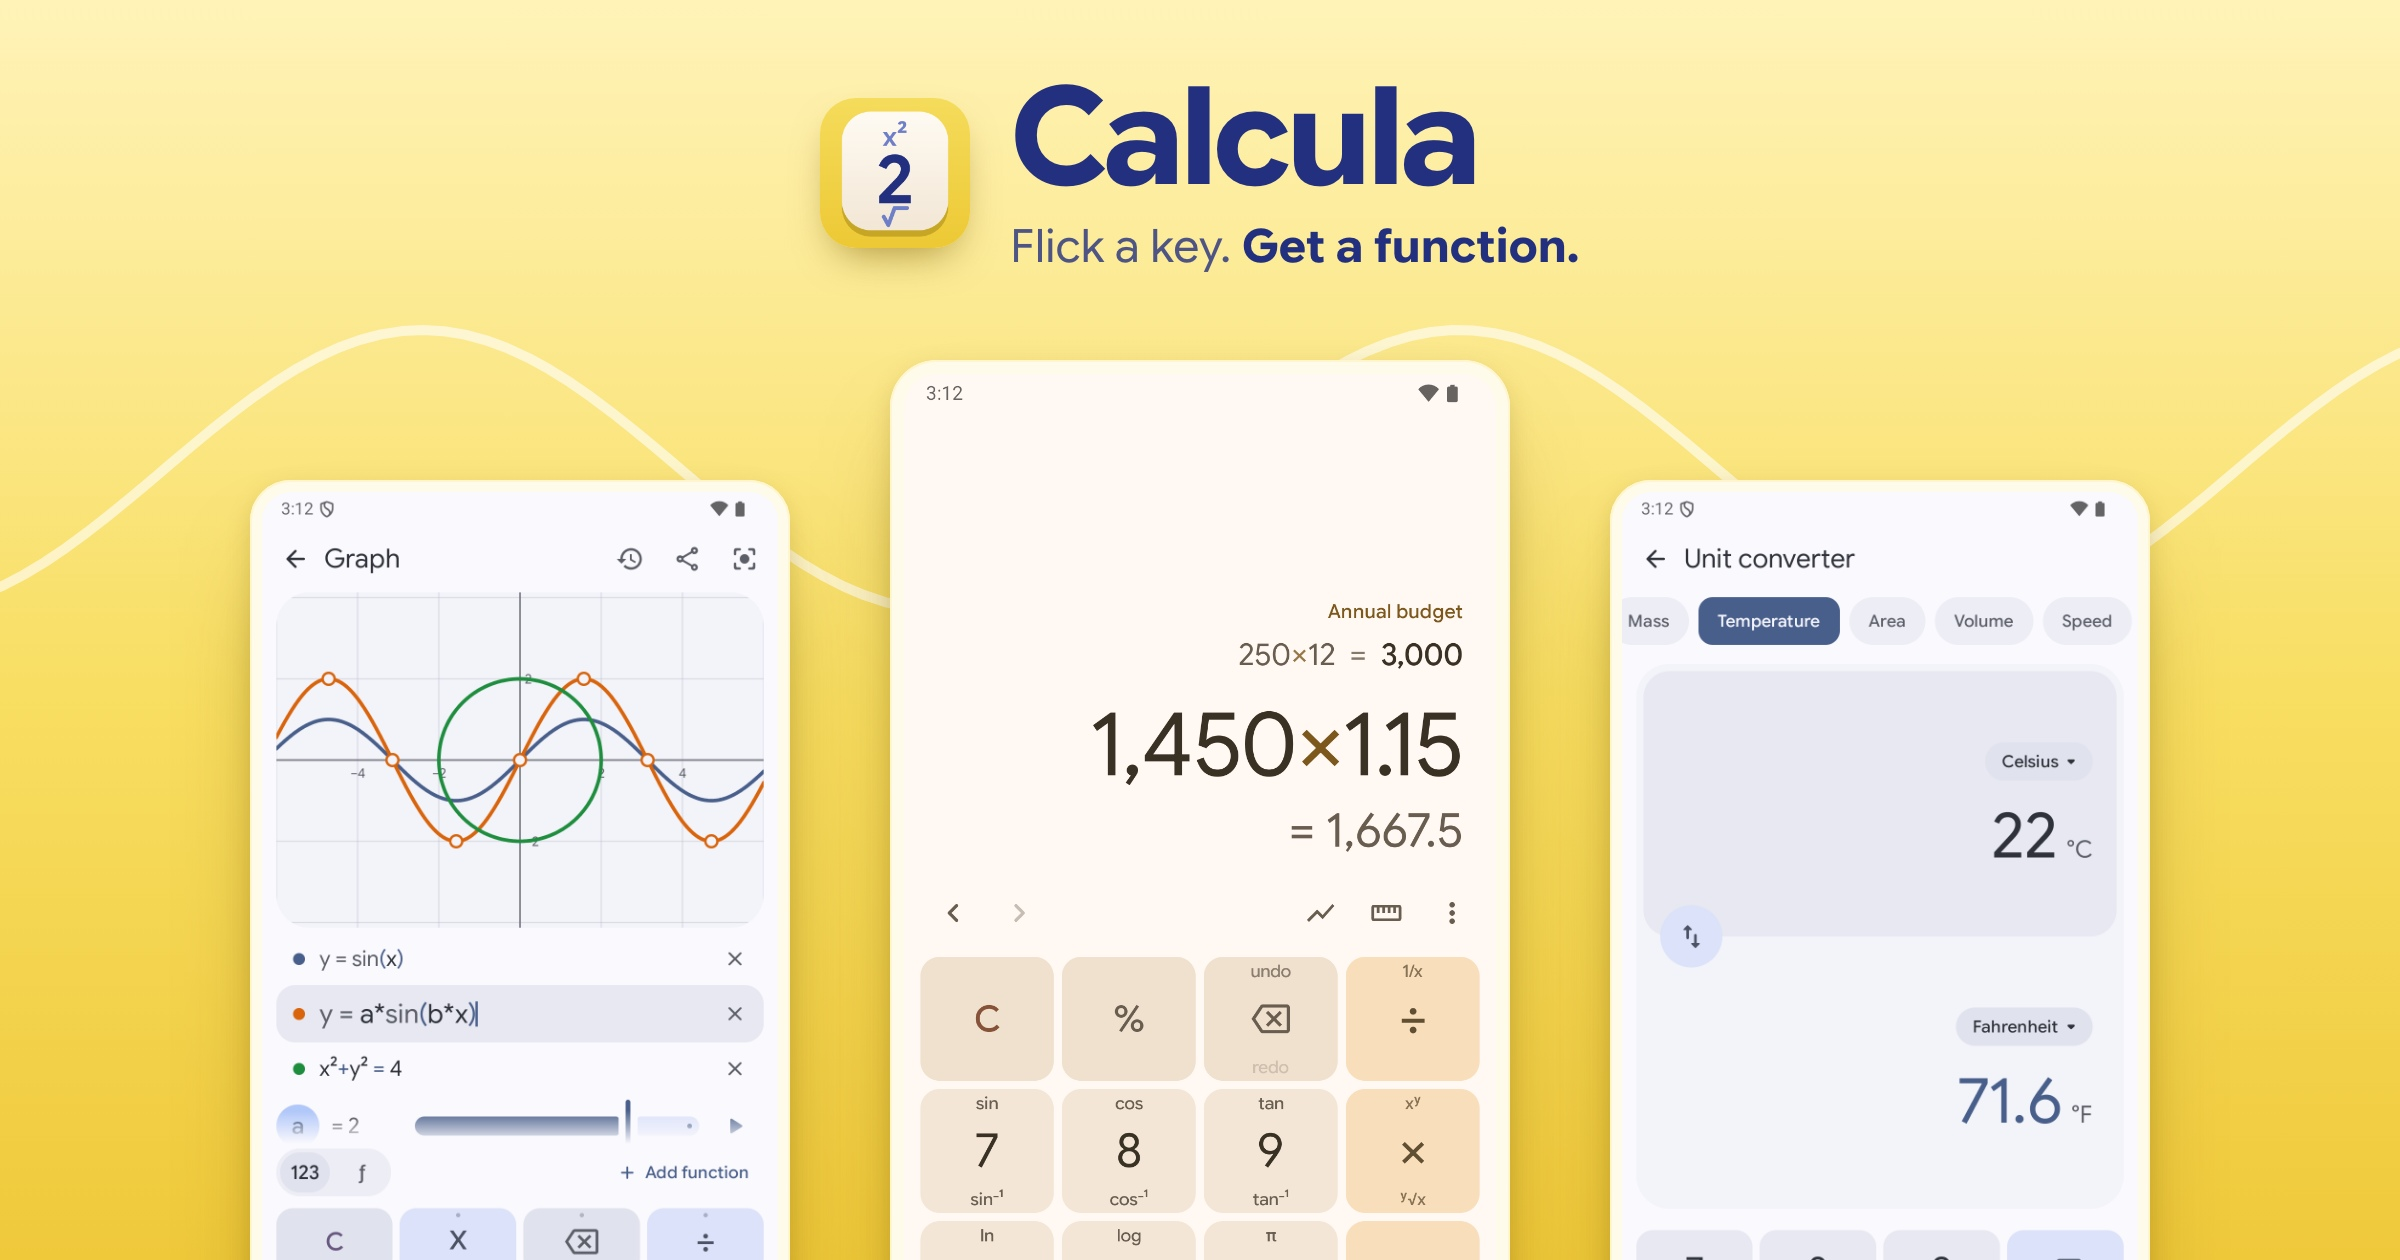
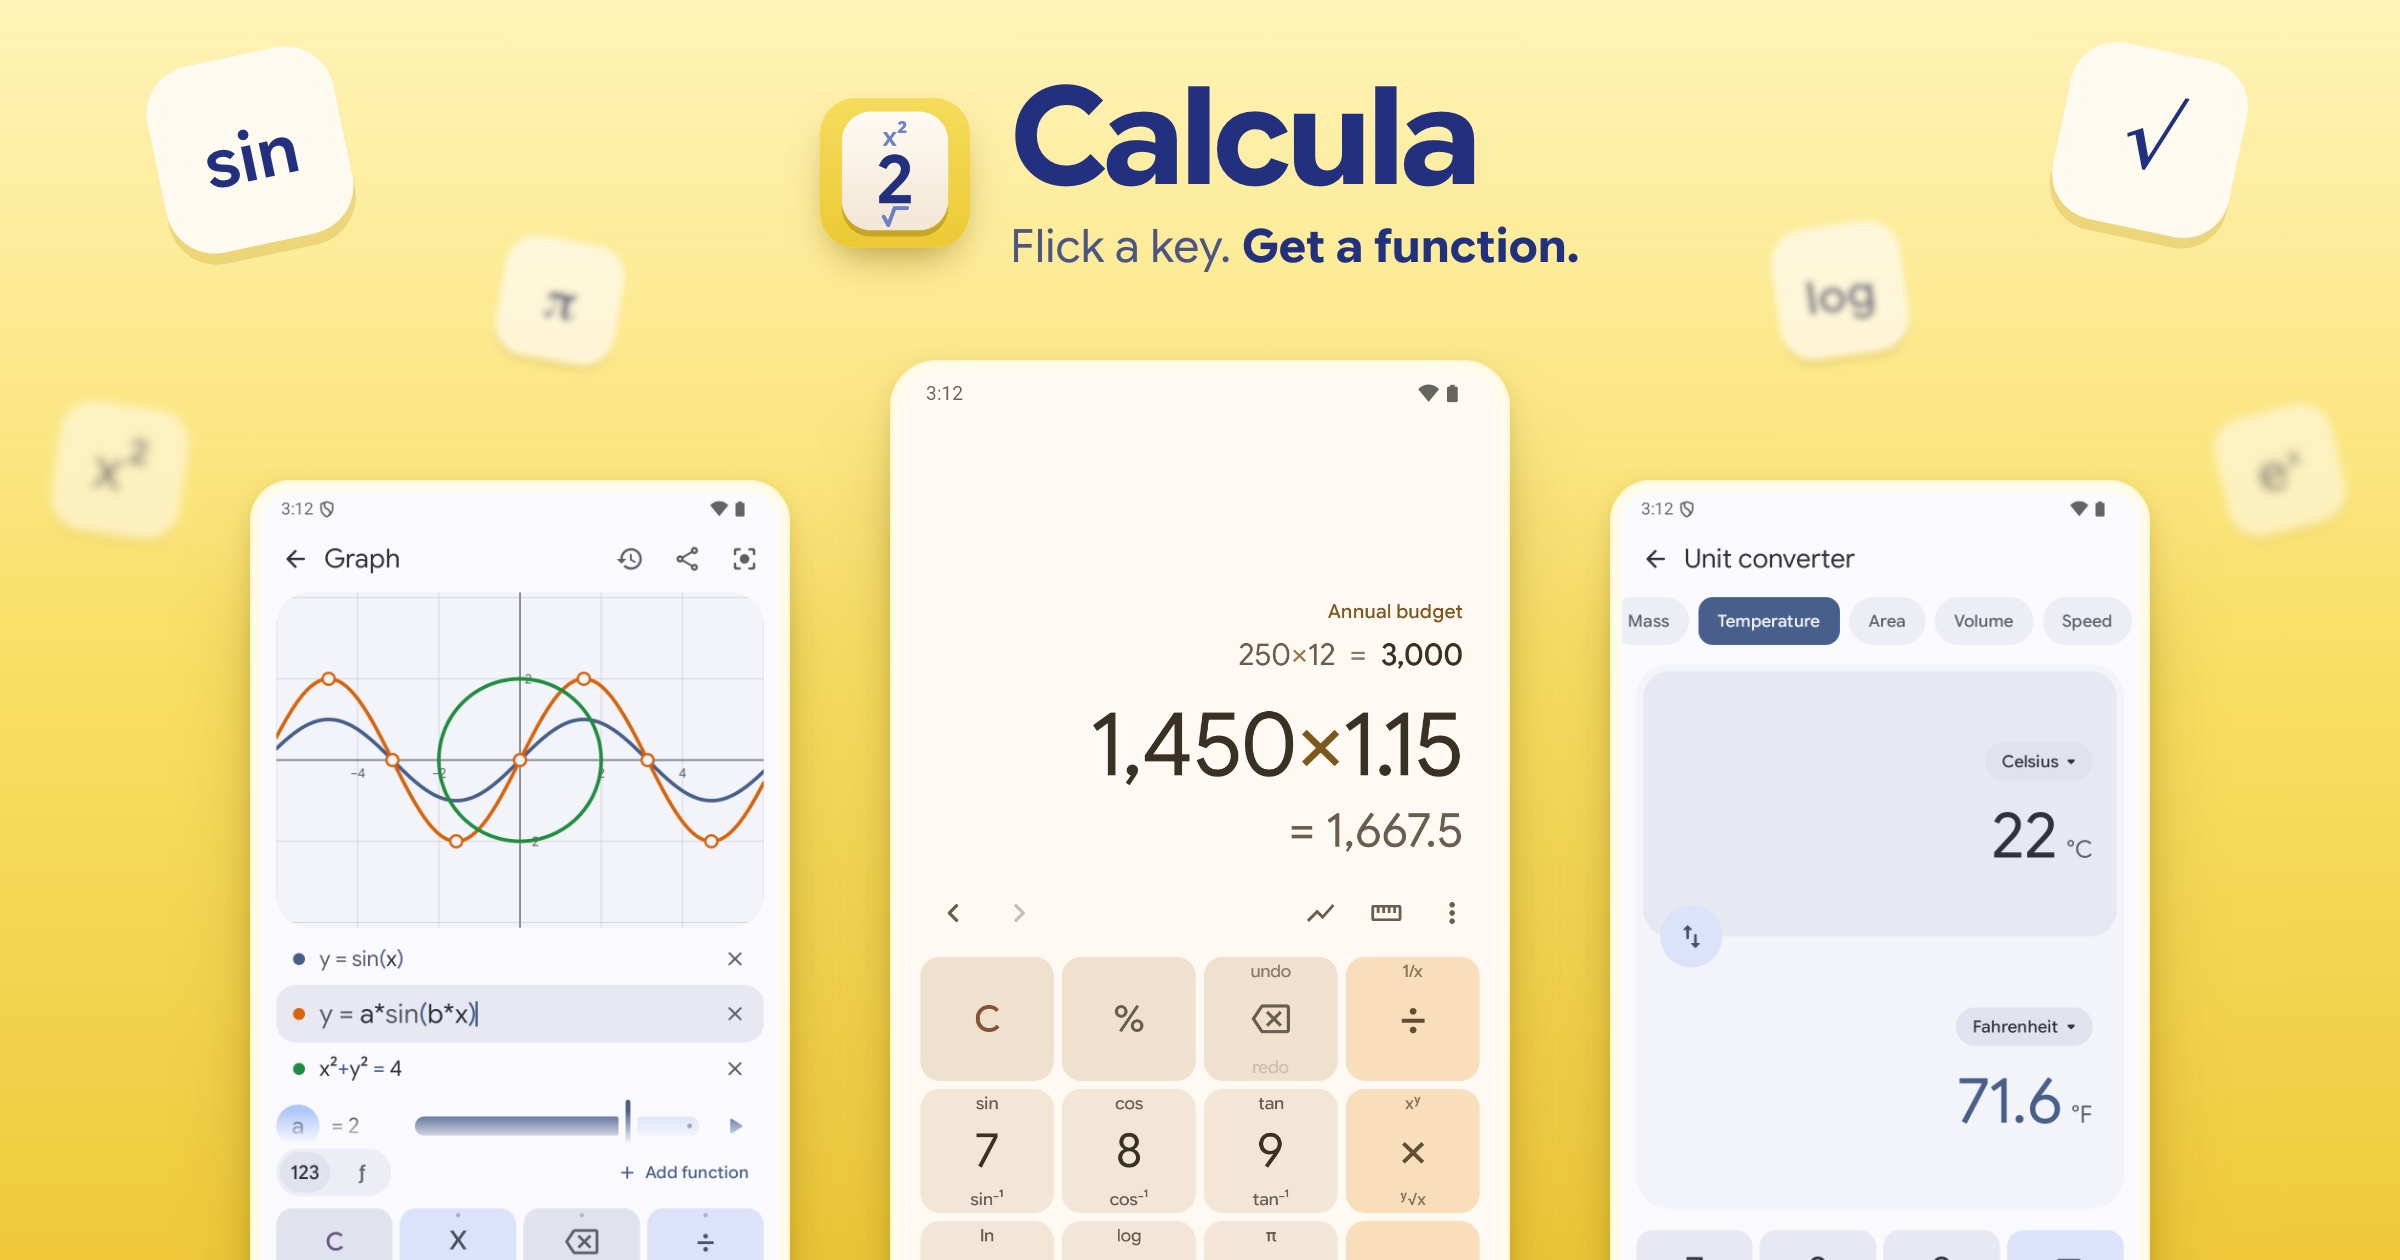
README header: Calcula's scientific keys float around the name, near ones sharp, far ones soft

diff --git a/store-listing/theme.js b/store-listing/theme.js
@@ -32,13 +32,19 @@ export default {
   // Paper: a faint graph-paper grid in panorama coordinates, so the cards still join when shown together.
   art({W, H, index, slide}) {
     if (slide.identity) {
-      // The README header: Calcula's yellow and one soft sine wave across the card, nothing else.
-      const ox = W / 2, oy = 470, unit = 165, amp = 140;
-      const pts = Array.from({length: 121}, (_, i) => -W / 2 - 60 + i * (W + 120) / 120)
-        .map(x => `${(ox + x).toFixed(1)},${(oy - amp * Math.sin(x / unit)).toFixed(1)}`).join(' ');
-      return `<defs><linearGradient id="field" x1="0" y1="0" x2="0" y2="1"><stop offset="0" stop-color="#fff3b8"/><stop offset=".55" stop-color="#f8de62"/><stop offset="1" stop-color="#efc93a"/></linearGradient></defs>` +
-        `<rect width="${W}" height="${H}" fill="url(#field)"/>` +
-        `<polyline points="${pts}" fill="none" stroke="#ffffff" stroke-opacity=".6" stroke-width="10" stroke-linecap="round" stroke-linejoin="round"/>`;
+      // The README header: Calcula's yellow with its scientific keys floating around the name, near ones sharp,
+      // far ones small and soft, the functions that sit a flick away on every key.
+      const keys = [
+        // [label, x, y, size, rotation, blur]
+        ['sin', 250, 150, 190, -12, 0], ['π', 560, 300, 120, 10, 3], ['x²', 120, 470, 130, 8, 5],
+        ['√', 2150, 140, 180, 12, 0], ['log', 1840, 290, 130, -8, 3], ['eˣ', 2280, 470, 120, -14, 5]];
+      const blurs = [...new Set(keys.map(k => k[5]).filter(Boolean))].map(b => `<filter id="soft${b}" x="-30%" y="-30%" width="160%" height="160%"><feGaussianBlur stdDeviation="${b}"/></filter>`).join('');
+      const caps = keys.map(([label, x, y, s, r, b]) => `<g transform="translate(${x} ${y}) rotate(${r})"${b ? ` filter="url(#soft${b})" opacity="${(1 - b / 12).toFixed(2)}"` : ''}>` +
+        `<rect x="${-s / 2}" y="${-s / 2 + s * .06}" width="${s}" height="${s}" rx="${s * .26}" fill="#b8860b" opacity=".22"/>` +
+        `<rect x="${-s / 2}" y="${-s / 2}" width="${s}" height="${s}" rx="${s * .26}" fill="#fffaf0"/>` +
+        `<text y="${s * .16}" font-size="${s * (label.length > 2 ? .36 : .46)}" font-family="Calcula" font-weight="600" fill="#22307f" text-anchor="middle">${label}</text></g>`).join('');
+      return `<defs><linearGradient id="field" x1="0" y1="0" x2="0" y2="1"><stop offset="0" stop-color="#fff3b8"/><stop offset=".55" stop-color="#f8de62"/><stop offset="1" stop-color="#efc93a"/></linearGradient>${blurs}</defs>` +
+        `<rect width="${W}" height="${H}" fill="url(#field)"/>${caps}`;
     }
     const cell = Math.round(Math.min(W, H) / 18), major = cell * 5, x0 = -index * W, off = ((x0 % major) + major) % major;
     const gap = slide.layout === 'big-screen-feature'
